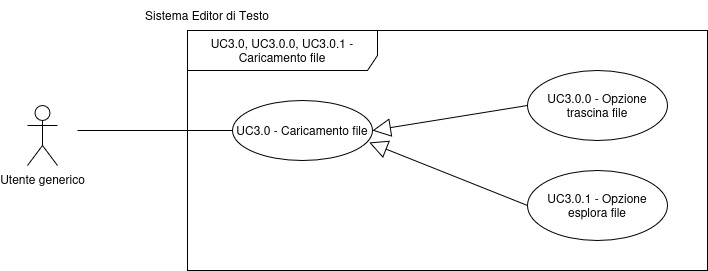
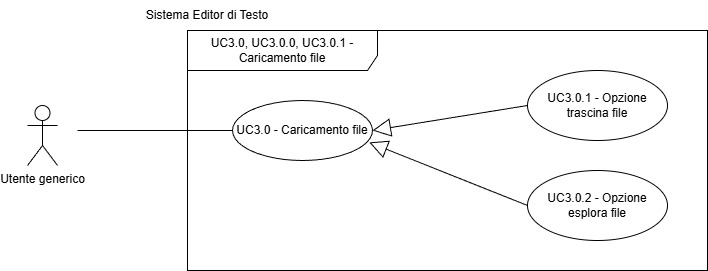
Sistemati diagrammi area 3 e 4

diff --git a/src/2_RTB/Analisi_dei_requisiti_v0.3.9.tex b/src/2_RTB/Analisi_dei_requisiti_v0.3.9.tex
@@ -97,6 +97,8 @@
         \hline
         \textbf{Versione} & \textbf{Data} & \textbf{Autore} & \textbf{Descrizione} & \textbf{Verifica} \\
         \hline
+        0.4.0 & 17/01/2026 & Elisa Marchioro & Sistemata macroarea 3 e 4 e i suoi diagrammi &  \\
+        \hline
         0.3.9 & 15/01/2026 & Giulia Barzon & Aggiunti diagrammi macroarea 1 e 2 &  \\
         \hline
         0.3.8 & 15/01/2026 & Giulia Barzon & Sistemati casi ed estensioni macroarea 2 &  \\
@@ -1817,15 +1819,30 @@ L'attore principale è l'\textbf{Utente} (nelle sue due varianti), mentre gli al
             \item Utente vede la schermata “Sei sicuro di voler rimuovere?”
             \item Utente preme si e rimuove con successo il file
         \end{itemize}
-        \item \textbf{Estensioni}:
+        \item \textbf{Scenario secondario}:
         \begin{itemize}
             \item Utente clicca no nella schermata “Sei sicuro di voler rimuovere?” e quindi il file non viene rimosso
         \end{itemize}
 \end{itemize}
 
+\subsubsection{UC-3.3.1 - Annullamento rimozione file caricato}
+\begin{itemize}
+    \item \textbf{Attore principale}: Utente generico
+    \item \textbf{Descrizione}: utente annulla la rimozione di un file che ha caricato
+    \item \textbf{Precondizioni}: utente clicca tasto tasto no nella schermata "Sei sicuro di voler rimuovere?"
+    \item \textbf{Postcondizioni}: il file non viene rimosso
+    \item \textbf{Scenario principale}:
+        \begin{itemize}
+            \item Utente clicca l'opzione no nella schermata "Sei sicuro di voler rimuovere?"
+            \item La rimozione del file viene annullata
+            \item L'utente torna nella pagina del file che ha caricato
+        \end{itemize}
+\end{itemize}
+
+
 \begin{figure}[H]
     \centering
-    \includegraphics[width=0.8\textwidth]{../UCimg/UC3.1_3.2_3.3_errori.jpg}
+    \includegraphics[width=0.8\textwidth]{../UCimg/UC3.1_3.2_3.3_3.3.1_errori.jpg}
     \caption{Diagramma dei casi d'uso UC-3.1, 3.2, 3.3}
     \label{fig:uc3.1}
 \end{figure}
@@ -1833,10 +1850,10 @@ L'attore principale è l'\textbf{Utente} (nelle sue due varianti), mentre gli al
 \newpage
 
 \subsection{Macroarea 4 - Persistenza: Salvataggio}
-\subsubsection{UC-4.0 - Esportazione dei file}
+\subsubsection{UC-4.0 - Esportazione di un file}
 \begin{itemize}
     \item \textbf{Attore principale}: Utente generico
-    \item \textbf{Descrizione}: Permettere all'utente di salvare il documento su cui ha lavorato
+    \item \textbf{Descrizione}: Permettere all'utente di esportare il documento su cui ha lavorato
     \item \textbf{Precondizioni}: Testo scritto nell'editor di testo
     \item \textbf{Postcondizioni}: L'utente ha il documento salvato in locale
     \item \textbf{Scenario principale}:
@@ -1844,17 +1861,19 @@ L'attore principale è l'\textbf{Utente} (nelle sue due varianti), mentre gli al
             \item Utente scrive del testo
             \item Utente decide di esportare il documento
             \item Utente preme sul tasto esporta
-            \item Utente ottiene una serie di opzioni per l'esportazione
+            \item Utente può selezionare il formato con cui esportare il file e le pagine che vuole esportare
+        \end{itemize}
+    \item \textbf{Scenari secondari}:
+        \begin{itemize}
+            \item Esportazione in PDF
+            \item Esportazione in MD
+            \item Esportazione in HTML
+            \item Esportazione in ODT
+            \item Esportazione in DOCX
         \end{itemize}
 \end{itemize}
-\begin{figure}[H]
-    \centering
-    \includegraphics[width=0.8\textwidth]{../UCimg/UC4.0_esportazioneFile.jpg}
-    \caption{Diagramma dei casi d'uso UC-4.0, UC-4.1, UC-4.1.*}
-    \label{fig:uc4.0}
-\end{figure}
 
-\subsubsection{UC-4.1 - Esportare un file in PDF}
+\subsubsection{UC-4.0.1 - Esportare un file in PDF}
 \begin{itemize}
     \item \textbf{Attore principale}: Utente generico
     \item \textbf{Descrizione}: Testo compilato salvato in locale sulla propria macchina in formato PDF
@@ -1868,7 +1887,7 @@ L'attore principale è l'\textbf{Utente} (nelle sue due varianti), mentre gli al
         \end{itemize}
 \end{itemize}
 
-\subsubsection{UC-4.1.1 - Esportare un file in MD}
+\subsubsection{UC-4.0.2 - Esportare un file in MD}
 \begin{itemize}
     \item \textbf{Attore principale}: Utente generico
     \item \textbf{Descrizione}: Testo compilato salvato in locale sulla propria macchina in formato testuale
@@ -1881,7 +1900,7 @@ L'attore principale è l'\textbf{Utente} (nelle sue due varianti), mentre gli al
         \end{itemize}
 \end{itemize}
 
-\subsubsection{UC-4.1.2 - Esportare un file in formato HTML}
+\subsubsection{UC-4.0.3 - Esportare un file in formato HTML}
 \begin{itemize}
     \item \textbf{Attore principale}: Utente generico
     \item \textbf{Descrizione}: Genera del codice HTML dal testo Markdown
@@ -1895,7 +1914,7 @@ L'attore principale è l'\textbf{Utente} (nelle sue due varianti), mentre gli al
         \end{itemize}
 \end{itemize}
 
-\subsubsection{UC-4.1.3 - Esportare un file in formato ODT}
+\subsubsection{UC-4.0.4 - Esportare un file in formato ODT}
 \begin{itemize}
     \item \textbf{Attore principale}: Utente generico
     \item \textbf{Descrizione}: Genera documenti compatibili con popolari editor testuali
@@ -1909,7 +1928,7 @@ L'attore principale è l'\textbf{Utente} (nelle sue due varianti), mentre gli al
         \end{itemize}
 \end{itemize}
 
-\subsubsection{UC-4.1.4 - Esportare un file in formato DOCX}
+\subsubsection{UC-4.0.5 - Esportare un file in formato DOCX}
 \begin{itemize}
     \item \textbf{Attore principale}: Utente generico
     \item \textbf{Descrizione}: Genera documenti compatibili con Microsoft Word
@@ -1922,8 +1941,14 @@ L'attore principale è l'\textbf{Utente} (nelle sue due varianti), mentre gli al
             \item Utente riceve il documento in formato DOCX
         \end{itemize}
 \end{itemize}
+\begin{figure}[H]
+    \centering
+    \includegraphics[width=0.8\textwidth]{../UCimg/UC4.0.jpg}
+    \caption{Diagramma dei casi d'uso UC-4.0, UC-4.0.1, UC-4.0.2, UC-4.0.3, UC-4.0.4, UC-4.0.5*}
+    \label{fig:uc4.0}
+\end{figure}
 
-\subsubsection{UC-4.2 - Esportare selezionate pagine del documento}
+\subsubsection{UC-4.1 - Esportare selezionate pagine del documento}
 \begin{itemize}
     \item \textbf{Attore principale}: Utente generico
     \item \textbf{Descrizione}: Scaricare nel formato desiderato solo alcune pagine del documento
@@ -1936,9 +1961,13 @@ L'attore principale è l'\textbf{Utente} (nelle sue due varianti), mentre gli al
             \item Seleziona modalità di esportazione
             \item Ottiene le pagine selezionate in un nuovo documento, salvato nel formato selezionato
         \end{itemize}
+    \item \textbf{Scenari secondari}:
+        \begin{itemize}
+            \item Esportare un range di pagine del documento
+        \end{itemize}
 \end{itemize}
 
-\subsubsection{UC-4.2.1 - Esportare un range pagine del documento}
+\subsubsection{UC-4.1.1 - Esportare un range di pagine del documento}
 \begin{itemize}
     \item \textbf{Attore principale}: Utente generico
     \item \textbf{Descrizione}: Scaricare nel formato desiderato solo un range di pagine del documento
@@ -1954,12 +1983,12 @@ L'attore principale è l'\textbf{Utente} (nelle sue due varianti), mentre gli al
 \end{itemize}
 \begin{figure}[H]
     \centering
-    \includegraphics[width=0.8\textwidth]{../UCimg/UC4.2_esportazionePagine.jpg}
-    \caption{Diagramma dei casi d'uso UC-4.2, UC-4.2.1}
+    \includegraphics[width=0.8\textwidth]{../UCimg/UC4.1.jpg}
+    \caption{Diagramma dei casi d'uso UC-4.1, UC-4.1.1}
     \label{fig:uc4.2}
 \end{figure}
 
-\subsubsection{UC-4.3 - Stampare il documento}
+\subsubsection{UC-4.2 - Stampare il documento}
 \begin{itemize}
     \item \textbf{Attore principale}: Utente generico
     \item \textbf{Descrizione}: Utente desidera stampare il documento senza doverlo prima esportare
@@ -1972,9 +2001,13 @@ L'attore principale è l'\textbf{Utente} (nelle sue due varianti), mentre gli al
             \item Utente ha accesso alle opzioni di stampa offerte dal suo browser
             \item Utente ritorna al proprio documento una volta completata l'operazione
         \end{itemize}
+    \item \textbf{Scenari secondari}:
+        \begin{itemize}
+            \item Stampare selezionate pagine del documento
+        \end{itemize}
 \end{itemize}
 
-\subsubsection{UC-4.3.1 - Stampare selezionate pagine del documento}
+\subsubsection{UC-4.2.1 - Stampare selezionate pagine del documento}
 \begin{itemize}
     \item \textbf{Attore principale}: Utente generico
     \item \textbf{Descrizione}: Utente desidera stampare solo alcune pagine del documento
@@ -1991,8 +2024,8 @@ L'attore principale è l'\textbf{Utente} (nelle sue due varianti), mentre gli al
 \end{itemize}
 \begin{figure}[H]
     \centering
-    \includegraphics[width=0.8\textwidth]{../UCimg/UC4.3_stampa.jpg}
-    \caption{Diagramma dei casi d'uso UC-4.3, UC-4.3.1}
+    \includegraphics[width=0.8\textwidth]{../UCimg/UC4.2.jpg}
+    \caption{Diagramma dei casi d'uso UC-4.2, UC-4.2.1}
     \label{fig:uc4.3}
 \end{figure}
 
